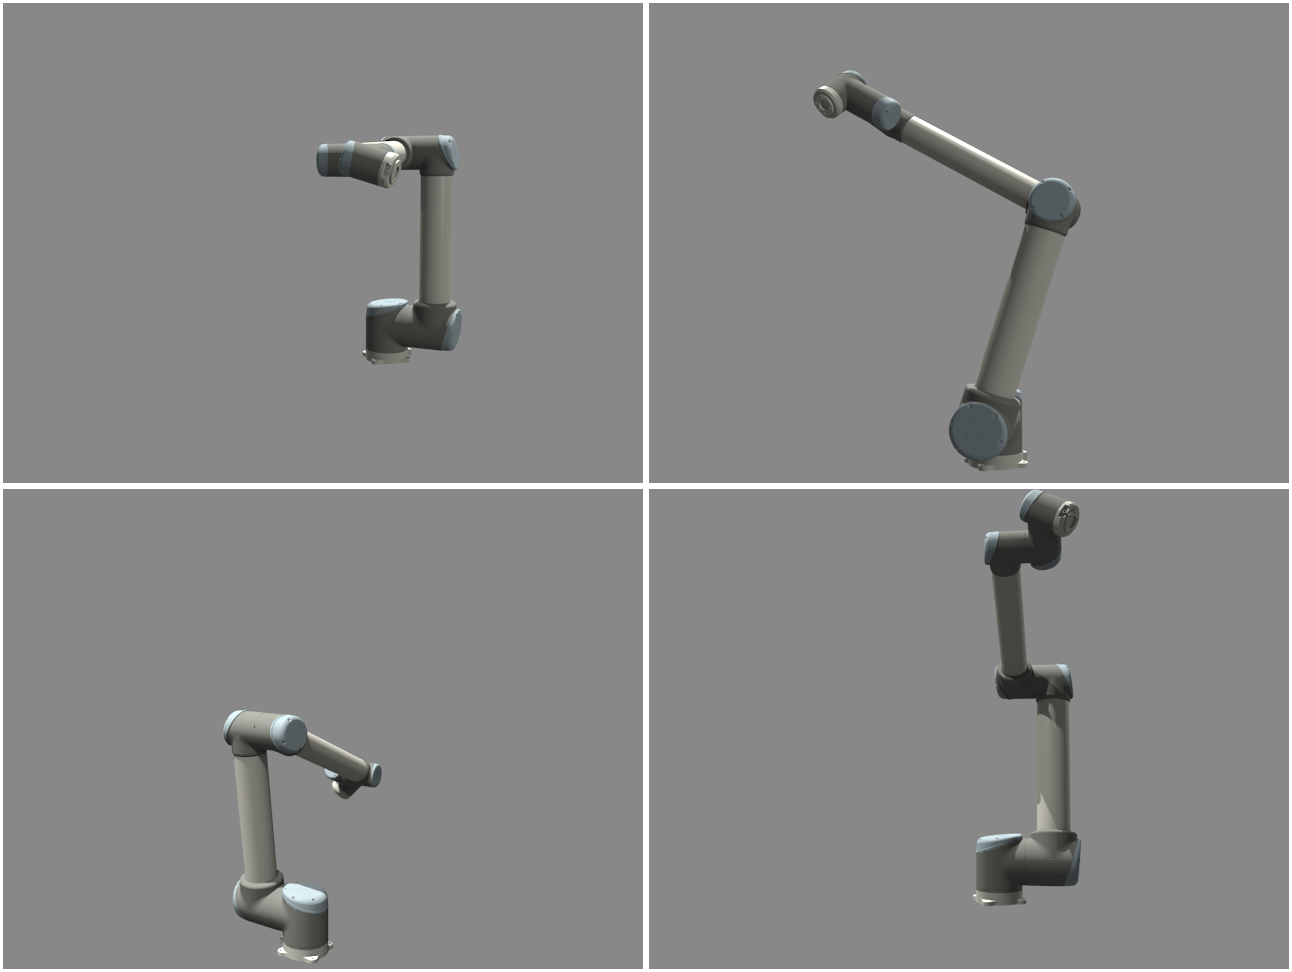
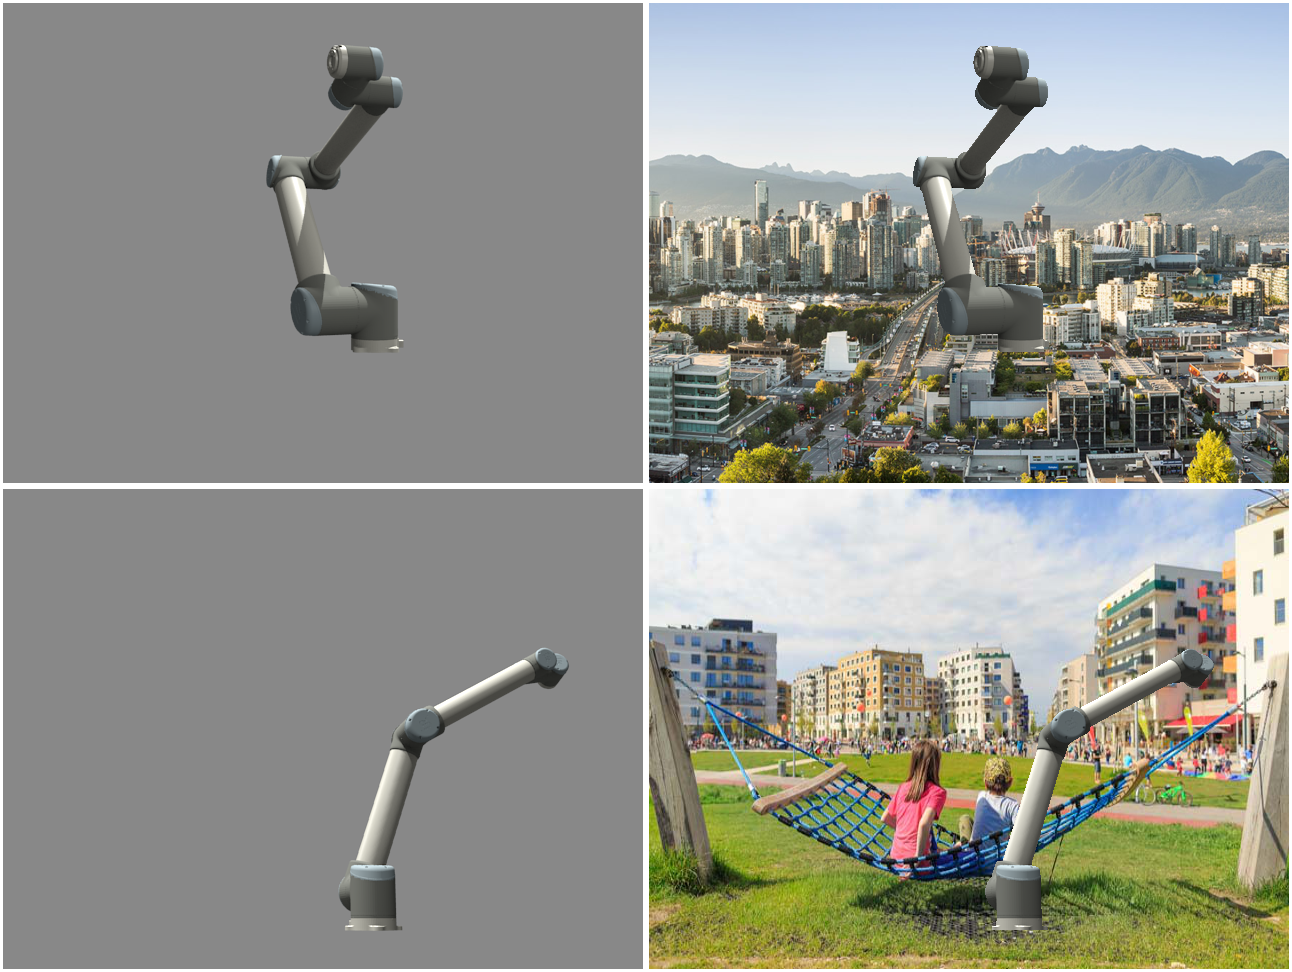
Polished abstract a little; Added nicer image for UR10 examples.

diff --git a/indin2019/pytorch-blender.tex b/indin2019/pytorch-blender.tex
@@ -38,49 +38,10 @@
     }
 }
 
-%%%\author{\IEEEauthorblockN{1\textsuperscript{st} Christoph Heindl}
-%%%\IEEEauthorblockA{\textit{Visual Computing} \\
-%%%\textit{PROFACTOR GmbH}\\
-%%%4407 Steyr, Austria \\
-%%%christoph.heindl@profactor.at}
-%%%\and
-%%%\IEEEauthorblockN{2\textsuperscript{nd} Sebastian Zambal}
-%%%\IEEEauthorblockA{\textit{Machine Vision} \\
-%%%\textit{PROFACTOR GmbH}\\
-%%%4407 Steyr, Austria \\
-%%%sebastian.zambal@profactor.at}
-%%%\and
-%%%\IEEEauthorblockN{3\textsuperscript{rd} Markus Ikeda}
-%%%\IEEEauthorblockA{\textit{Robotics} \\
-%%%\textit{PROFACTOR GmbH}\\
-%%%4407 Stey, Austria \\
-%%%markus.ikeda@profactor.at}
-%%%\and
-%%%%%%\IEEEauthorblockN{~~~~~~~~~4\textsuperscript{th} Christian Eitzinger~~~~~~~~~}
-%%%%%%\IEEEauthorblockA{\textit{Machine Vision} \\
-%%%%%%\textit{PROFACTOR GmbH}\\
-%%%%%%4407 Stey, Austria \\
-%%%%%%christian.eitzinger@profactor.at}
-%%%%%%\and
-%%%%\IEEEauthorblockN{~~~~~~~~~~~~~~~~~~4\textsuperscript{th} Andreas Pichler~~~~~~~~~~~~~~~~~~}
-%%%\IEEEauthorblockN{4\textsuperscript{th} Andreas Pichler}
-%%%\IEEEauthorblockA{\textit{Robotics} \\
-%%%\textit{PROFACTOR GmbH}\\
-%%%4407 Stey, Austria \\
-%%%anreas.pichler@profactor.at}
-%%%\and
-%%%%\IEEEauthorblockN{~~~~~~~~~~~~~~~~~~5\textsuperscript{th} Josef Scharinger~~~~~~~~~~~~~~~~~~}
-%%%\IEEEauthorblockN{5\textsuperscript{th} Josef Scharinger}
-%%%\IEEEauthorblockA{\textit{Institute of Computational Perception} \\
-%%%\textit{Johannes Kepler University}\\
-%%%4040 Linz \\
-%%%josef.scharinger@jku.at}
-%%%}
-
 \maketitle
 
 \begin{abstract}
-Impressive results have been achieved in computer vision via machine learning methods over the last years. However, for many highly specialized industrial applications these methods cannot directly be applied due to the lack of large amounts of training data. In this paper we propose a software framework that provides artificial data. Such artificial data opens the door for machine learning even when it is hard or impossible to acquire real data. The presented system is flexible in the sense that it supports image data generation in a flexible way. We show how artificial images can directly be used in pytorch to perform deep neural network training. 
+Impressive results have been achieved in computer vision via deep learning methods over the last years. However, for many highly specialized industrial applications these methods cannot easily be applied due to the lack of large amounts of training data. In this paper we propose a software framework that provides artificial image data via simulation. This approach opens the door for machine learning even when it is hard or impossible to acquire real (labelled) images. Our system supports parallelized data generation and direct feedback from neural network training to adaptively put focus on critical parameter ranges. We demonstrate that the model trained on artificial robot images is able to generalize to real world images. 
 \end{abstract}
 
 \begin{IEEEkeywords}
@@ -120,7 +81,7 @@ In this paper we propose method of generating artificial training data from a si
 
 \subsection{Artificial Data for Training}
 
-    Conceptually, it makes sense to model the process for generation of artificial training data as a probabilistic graphical model. Such a model describes probabilistic relationships between hidden and observed variables in terms of prior and conditional probability distributions. The observed variables in our model correspond to pixels in the generated images $\mathbf{X}$. The hidden variables describe the model behind these images. Hidden variables $\mathbf{H}$ consist of robot joint angles and virtual camera position. To be more specific, we can write the hidden parameters of the model as a vector of random variables $\mathbf{H} = (j_1, \dots, j_6, r, \alpha, \beta, d, b)$. $j_i$ denote the individual joint angles for different poses of the robot. $\alpha$, $\beta$  represent azimuth and polar angles of polar coordinates of the virtual camera position. $r$ denotes the distance from the origin to complete polar coordinates. The camera orientation is chosen such that the camera looks at a point with random distance $d$ with respect to a pre-defined look-at point. When setting up a model, one is interested in controlling parameters that are relevant for the specific application. In our case we address robot joint locations. In order to obtain realistic background, we are not interested in creating a detailed model for this as well. We therefore make use of the fact that the rendering engine is able to provide masks for rendered objects. We use the masks of rendered robots to draw these over some random background images. From a set of real photos, we select one randomly in the rendering process and draw the robot over it. Examples of artificially rendered images are shown in figure~\ref{fig:ur10examples}.
+    Conceptually, it makes sense to model the process for creating artificial training data as a probabilistic graphical model. Such a model describes probabilistic relationships between hidden and observed variables in terms of prior and conditional probability distributions. The observed variables in our model correspond to pixels in the generated images $\mathbf{X}$. The hidden variables describe the model behind these images. Hidden variables $\mathbf{H}$ consist of robot joint angles and virtual camera position. To be more specific, we can write the hidden parameters of the model as a vector of random variables $\mathbf{H} = (j_1, \dots, j_6, r, \alpha, \beta, d, b)$. $j_i$ denote the individual joint angles for different poses of the robot. $\alpha$, $\beta$  represent azimuth and polar angles of polar coordinates of the virtual camera position. $r$ denotes the distance from the origin to complete polar coordinates. The camera orientation is chosen such that the camera looks at a point with random distance $d$ with respect to a pre-defined look-at point. When setting up a model, one is interested in controlling parameters that are relevant for the specific application. In our case we address robot joint locations. In order to obtain realistic background, we are not interested in creating a detailed model for this as well. We therefore make use of the fact that the rendering engine is able to provide masks for rendered objects. We use the masks of rendered robots to draw these over some random background images. From a set of real photos, we select one randomly in the rendering process and draw the robot over it. Examples of artificially rendered images are shown in figure~\ref{fig:ur10examples}.
     
     \begin{figure}[htbp]
         \centerline{\includegraphics[width=0.9\columnwidth]{figures/examplesUR10/renderedImages.png}}
@@ -134,7 +95,9 @@ In this paper we propose method of generating artificial training data from a si
         \caption{\label{fig:probModel} The image rendering process as probabilistic graphical model. A complex model creates images $\mathbf{X}$ conditioned on global hidden random variables $\mathbf{H}$. The hidden parameters are governed by parameters $\theta$. Local hidden variables $\mathbf{Y}$ cannot be inferred in closed form.}
     \end{figure}
 
-    The problem at hand is to derive the hidden joint locations $\mathbf{Y}$ in the camera images. Based on the probabilistic model it is not possible to invert reasoning. Although we control the process of image generation, we have no possibility to directly infer hidden parameters given the observed images. TODO (?): Mention Gibbs Sampling / Metropolis Hastings / Variational Inference?
+    The problem at hand is to derive the hidden joint locations $\mathbf{Y}$ in the camera images. Based on the probabilistic model it is not possible to invert reasoning. Although we control the process of image generation, we have no possibility to directly infer hidden parameters $\mathbf{Y}$ given the observed images $\mathbf{X}$. 
+    
+    In addition to the random parameters of the simulator explained above, we use conventional data augmentation. This includes random scaling of background images, random color jitter, etc. Although this data augmentation could be seen as part of the probabilistic model, it is not included in the model outlined above. 
     
 
 \subsection{Localization Model and Training}
